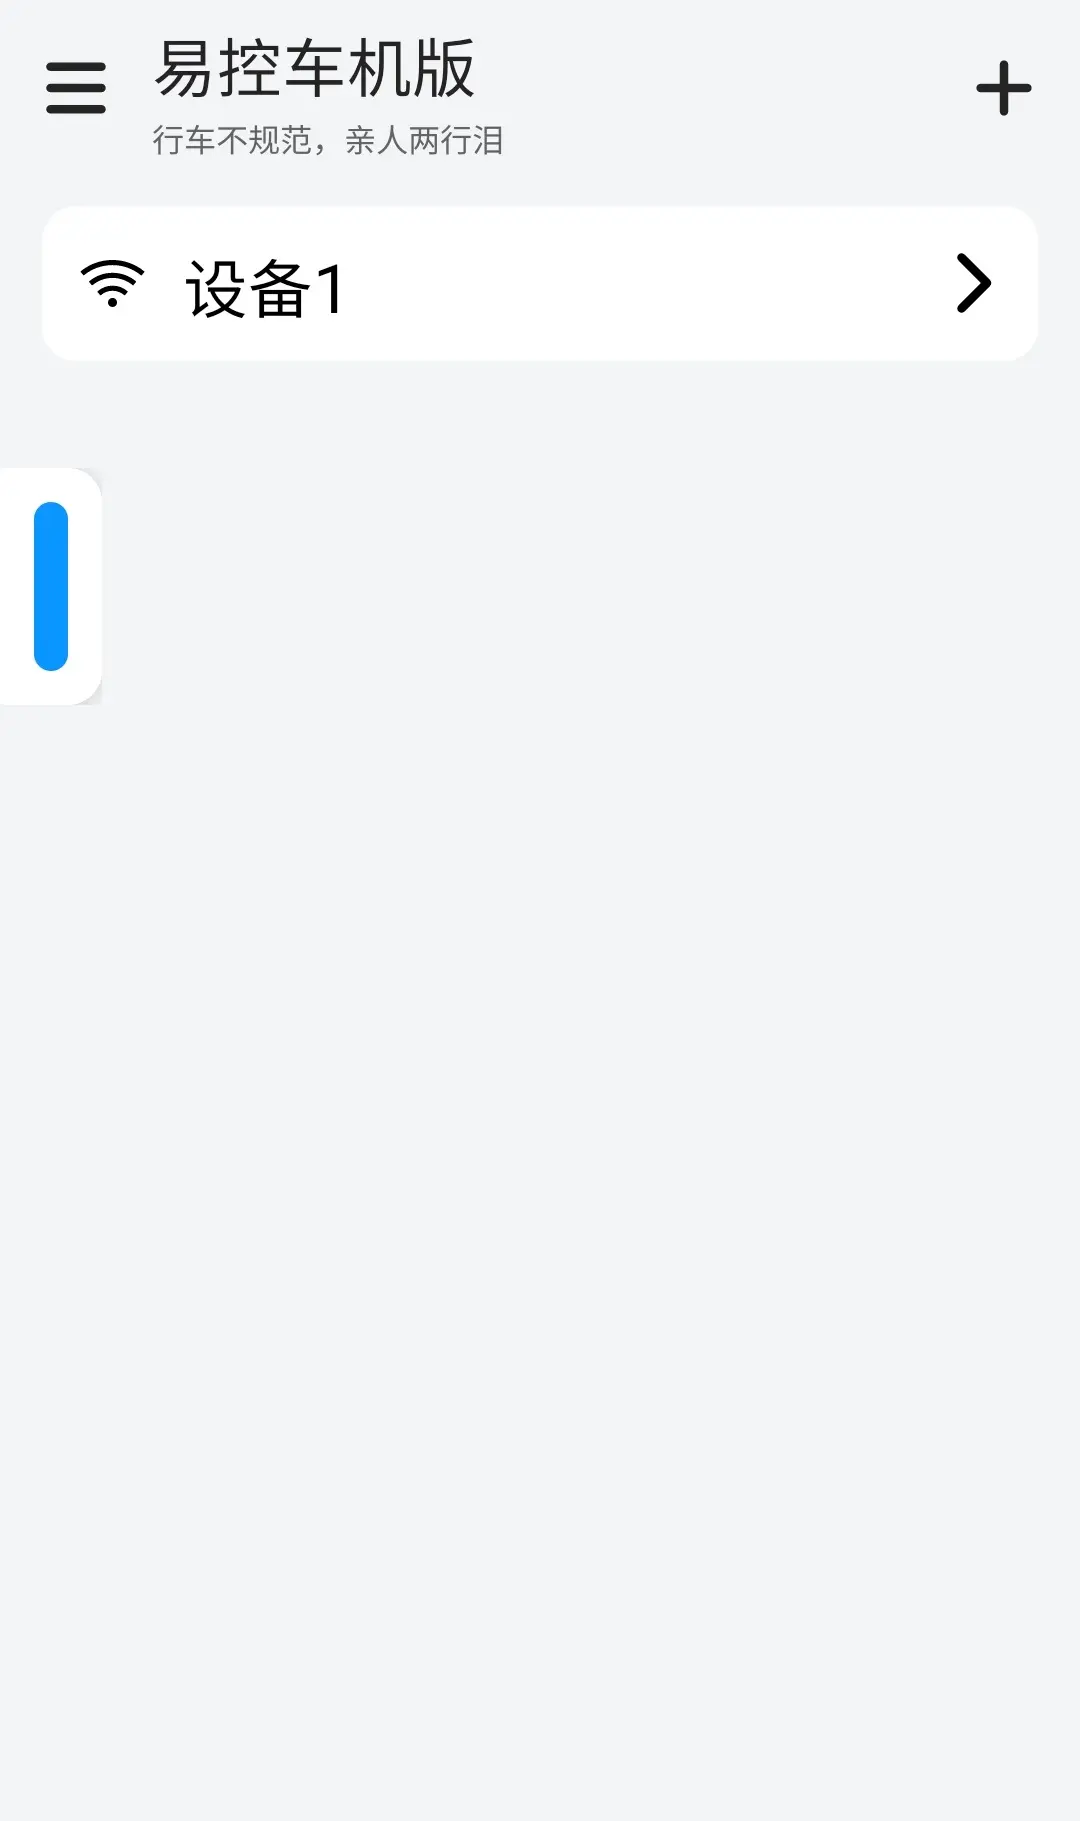
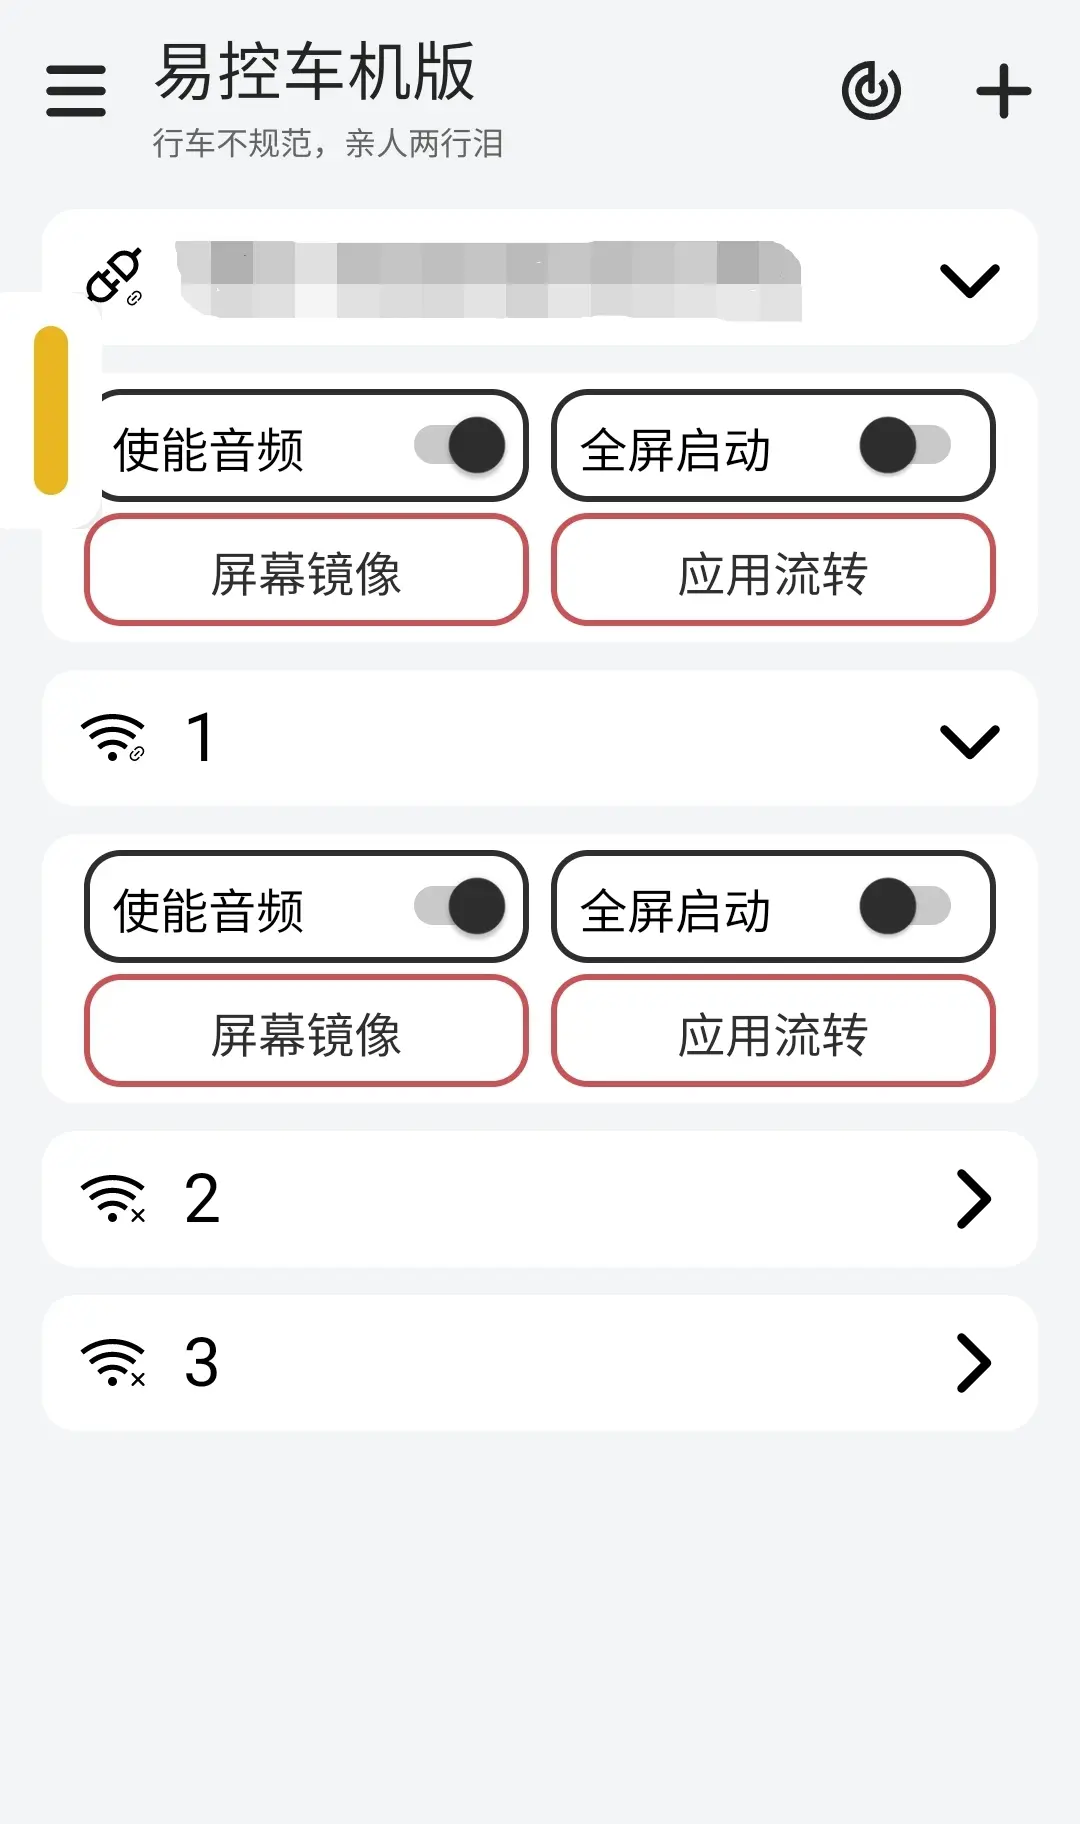
车机版 V1.4.0

diff --git a/HOW_TO_USE.md b/HOW_TO_USE.md
@@ -8,24 +8,30 @@
 	- 打开“USB调试(安全调试)”（MIUI设备）
 	- 打开“USB安装”（如果有则打开）
 	- 打开“关闭权限监控”（如果有则打开）
-#### 注意: 重启被控端手机后，需要重新进行上述操作
+#### 注意: 重启被控端手机后，需要重新检查上述操作
 
 ## 软件使用
 1. 简单使用-有线连接
-	1. 主控端安装易控车机版，打开软件进行悬浮窗授权
+	1. 主控端安装易控车机版，给予悬浮窗授权，打开软件
 	2. 利用数据线将主控端与被控端连接，主控端易控车机版界面允许易控车机版访问设备
-	3. 点击主控端易控车机版列表中第一行出现的新设备
-	4. 被控端授权允许主控端连接（请勾选一律允许）
+	3. 点击主控端易控车机版列表中出现的新有线设备
+	4. 选择屏幕镜像或应用流转模式进行连接
+	5. 被控端授权允许主控端连接（可勾选一律允许）
 	
 2. 简单使用-无线连接
-	1. 主控端安装易控车机版，打开软件进行悬浮窗授权
+	1. 主控端安装易控车机版，给予悬浮窗授权，打开软件
 	2. 确保主控端能够访问被控端（例如在一个wifi下面）
-	3. 打开被控端无线调试（并非开发者选项中的无线调试），可使用上面有线连接，随后长按设备点击“打开无线”按钮实现
-	4. 主控端易控车机版界面点击右上角添加设备，在设备地址处输入被控端地址，地址格式：
-		- IPv4：192.168.43.1:5555
-		- IPv6：[2408:8462:2510:1e05:c39:3262:632d:1a3d]:5555
-		- 域名：ex.com:5555
-	5. 点击刚添加的新设备，被控端授权允许主控端连接（请勾选一律允许）
+	3.  - 打开被控端无线调试（并非开发者选项中的无线调试）
+	    - 可使用上面有线连接，随后长按设备点击“打开无线”按钮实现
+	4. 主控端易控车机版界面点击右上角添加设备
+	    - 在设备地址处输入被控端地址（地址:端口）
+		- 地址格式（例）：
+			- IPv4：192.168.43.1:5555
+			- IPv6：[2408:8462:2510:1e05:c39:3262:632d:1a3d]:5555
+			- 域名：example.com:5555
+		- 点击扫描，扫描C类地址（掩码为255.255.255.0）下的设备
+	5. 选择屏幕镜像或应用流转模式进行连接
+	6. 被控端授权允许主控端连接（可勾选一律允许）
 
 3. 界面使用
 	1. 工具栏
@@ -54,43 +60,55 @@
 		
 		广播地址为："**top.eiyooooo.easycontrol.app.CONTROL**"，需要向意向也就是Intent填入想要做的动作
 		- 启动默认设备：
-			action：startDefault
+			- action：startDefault
+		    - mode：0, 1 （可选，默认为0，0:屏幕镜像，1:应用流转）
 		- 启动目标设备：
-			action：start
-			uuid：设备ID
+			- action：start
+			- uuid：设备ID
+			- mode：0, 1 （可选，默认为0，0:屏幕镜像，1:应用流转）
 		- 目标设备变成小窗：
-			action：changeToSmall
-			uuid：设备ID
+			- action：changeToSmall
+			- uuid：设备ID
 		- 目标设备最小化：
-			action：changeToMini
-			uuid：设备ID
+			- action：changeToMini
+			- uuid：设备ID
 		- 目标设备全屏：
-			action：changeToFull
-			uuid：设备ID
+			- action：changeToFull
+			- uuid：设备ID
 		- 目标设备按下电源键：
-			action：buttonPower
-			uuid：设备ID
+			- action：buttonPower
+			- uuid：设备ID
+		- 目标设备唤醒：
+			- action：buttonWake
+			- uuid：设备ID
+		- 目标设备锁定：
+			- action：buttonLock
+			- uuid：设备ID
 		- 目标设备打开背光：
-			action：buttonLight
-			uuid：设备ID
+			- action：buttonLight
+			- uuid：设备ID
 		- 目标设备关闭背光：
-			action：buttonLightOff
-			uuid：设备ID
+			- action：buttonLightOff
+			- uuid：设备ID
 		- 目标设备按下返回键：
-			action：buttonBack
-			uuid：设备ID
+			- action：buttonBack
+			- uuid：设备ID
 		- 目标设备按下桌面键：
-			action：buttonHome
-			uuid：设备ID
+			- action：buttonHome
+			- uuid：设备ID
 		- 目标设备按下最近任务键：
-			action：buttonSwitch
-			uuid：设备ID
+			- action：buttonSwitch
+			- uuid：设备ID
 		- 目标设备旋转屏幕：
-			action：buttonRotate
-			uuid：设备ID
+			- action：buttonRotate
+			- uuid：设备ID
 		- 目标设备关闭投屏：
-			action：close
-			uuid：设备ID
+			- action：close
+			- uuid：设备ID
+		- 目标设备执行命令：
+			- action：runShell
+			- uuid：设备ID
+			- cmd: 命令
 
 	2. 可通过快捷方式直接启动默认USB或无线设备
 		- StartUsbActivity启动默认USB设备

diff --git a/README.md b/README.md
@@ -4,26 +4,24 @@
 本软件基于[易控原版](https://gitee.com/mingzhixianweb/easycontrol)，对其进行了修改，优化了安卓车机控制安卓手机的体验。
 
 ## 车机版功能特色
+- 应用流转(实验性)
 - 车机版放大按钮
-- 横竖屏小窗位置单独保存
+- 横竖屏悬浮窗位置单独保存
 - 音频输出为导航声道
 - 十秒无操作隐藏控制条
-- 优化控制面板
+- 屏幕宽高比例自由缩放(实验性)
+- 优化工具栏
   - 自动收回
   - 点击外部时缩回
-- 可选
-  - 启动时点亮屏幕
-  - 启动时进入熄屏控制
-  - 断开时熄灭屏幕
-  - 断开时退出熄屏控制
+- 优化
+  - 自动检查已添加的无线设备是否可达
+  - 局域网设备扫描
+  - 单设备多连接
+  - 触摸外界时挂起
+  - 按钮重置悬浮窗位置和大小
 - 可通过快捷方式直接启动默认USB或无线设备
   - StartUsbActivity启动默认USB设备
   - StartDefaultActivity启动默认无线设备
-- 优化
-  - USB断开流程
-  - 断开连接流程
-  - 主控端与被控端通信丢失后断开连接
-- 屏幕宽高比例自由缩放(实验性)
 
 ## 使用说明
 - [点击此处前往易控车机版使用说明](https://github.com/eiyooooo/Easycontrol_For_Car/blob/main/HOW_TO_USE.md)

diff --git a/HOW_TO_BUILD.md b/HOW_TO_BUILD.md
@@ -1,6 +1,6 @@
 # 易控车机版(Easycontrol_For_Car)编译说明
 
-### 注意：需要GItHub账号
+### 注意：需要GitHub账号
 
 <img src="https://github.com/eiyooooo/Easycontrol_For_Car/raw/main/pic/build/1-2.webp">
 
@@ -8,5 +8,5 @@
 
 <img src="https://github.com/eiyooooo/Easycontrol_For_Car/raw/main/pic/build/8-9.webp">
 
-## 更新按下图所示操作后重新执行上面的操作
+## 项目有更新时按下图所示操作后重新执行上面的操作
 <img src="https://github.com/eiyooooo/Easycontrol_For_Car/raw/main/pic/build/update.webp">
